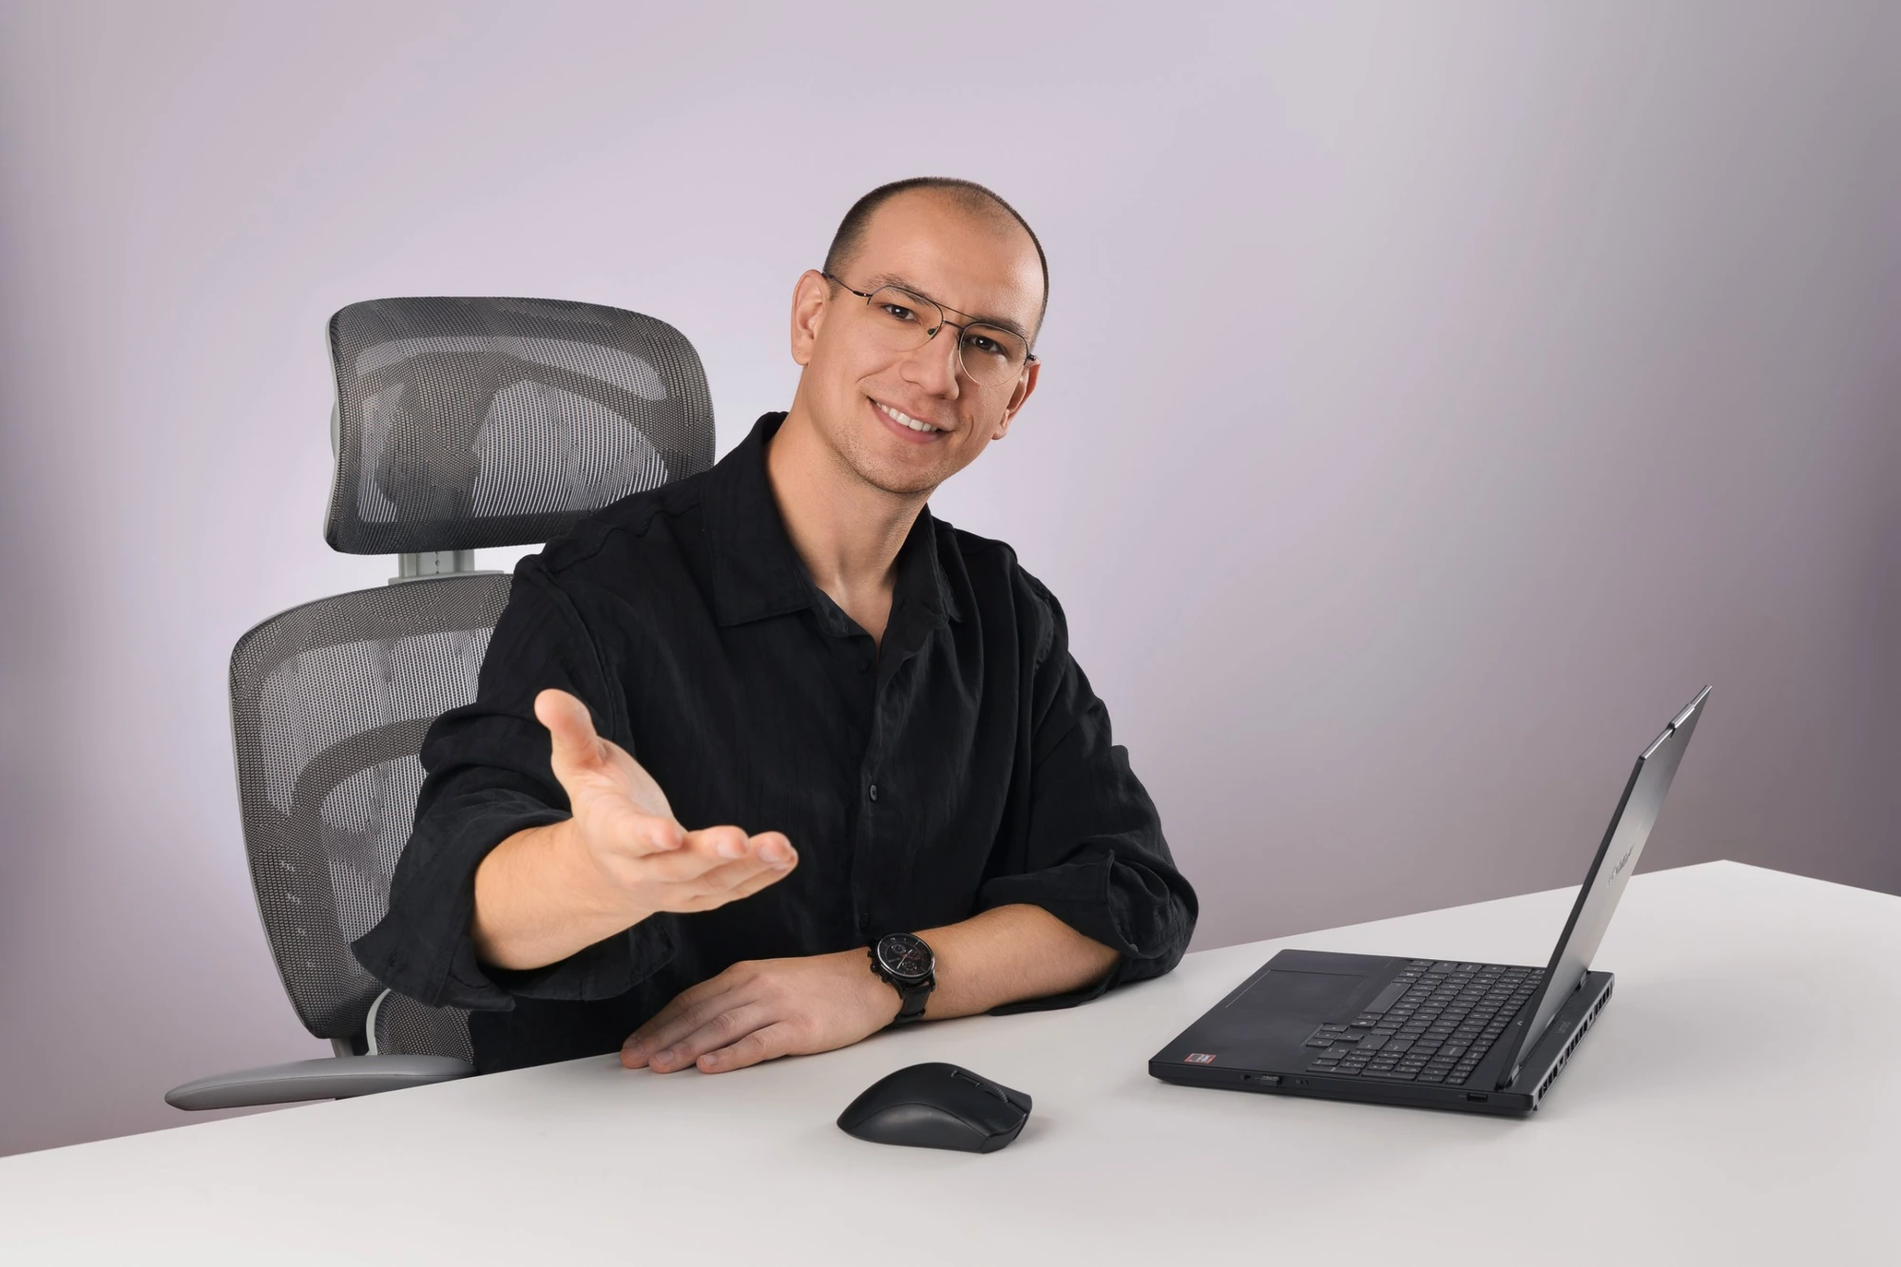
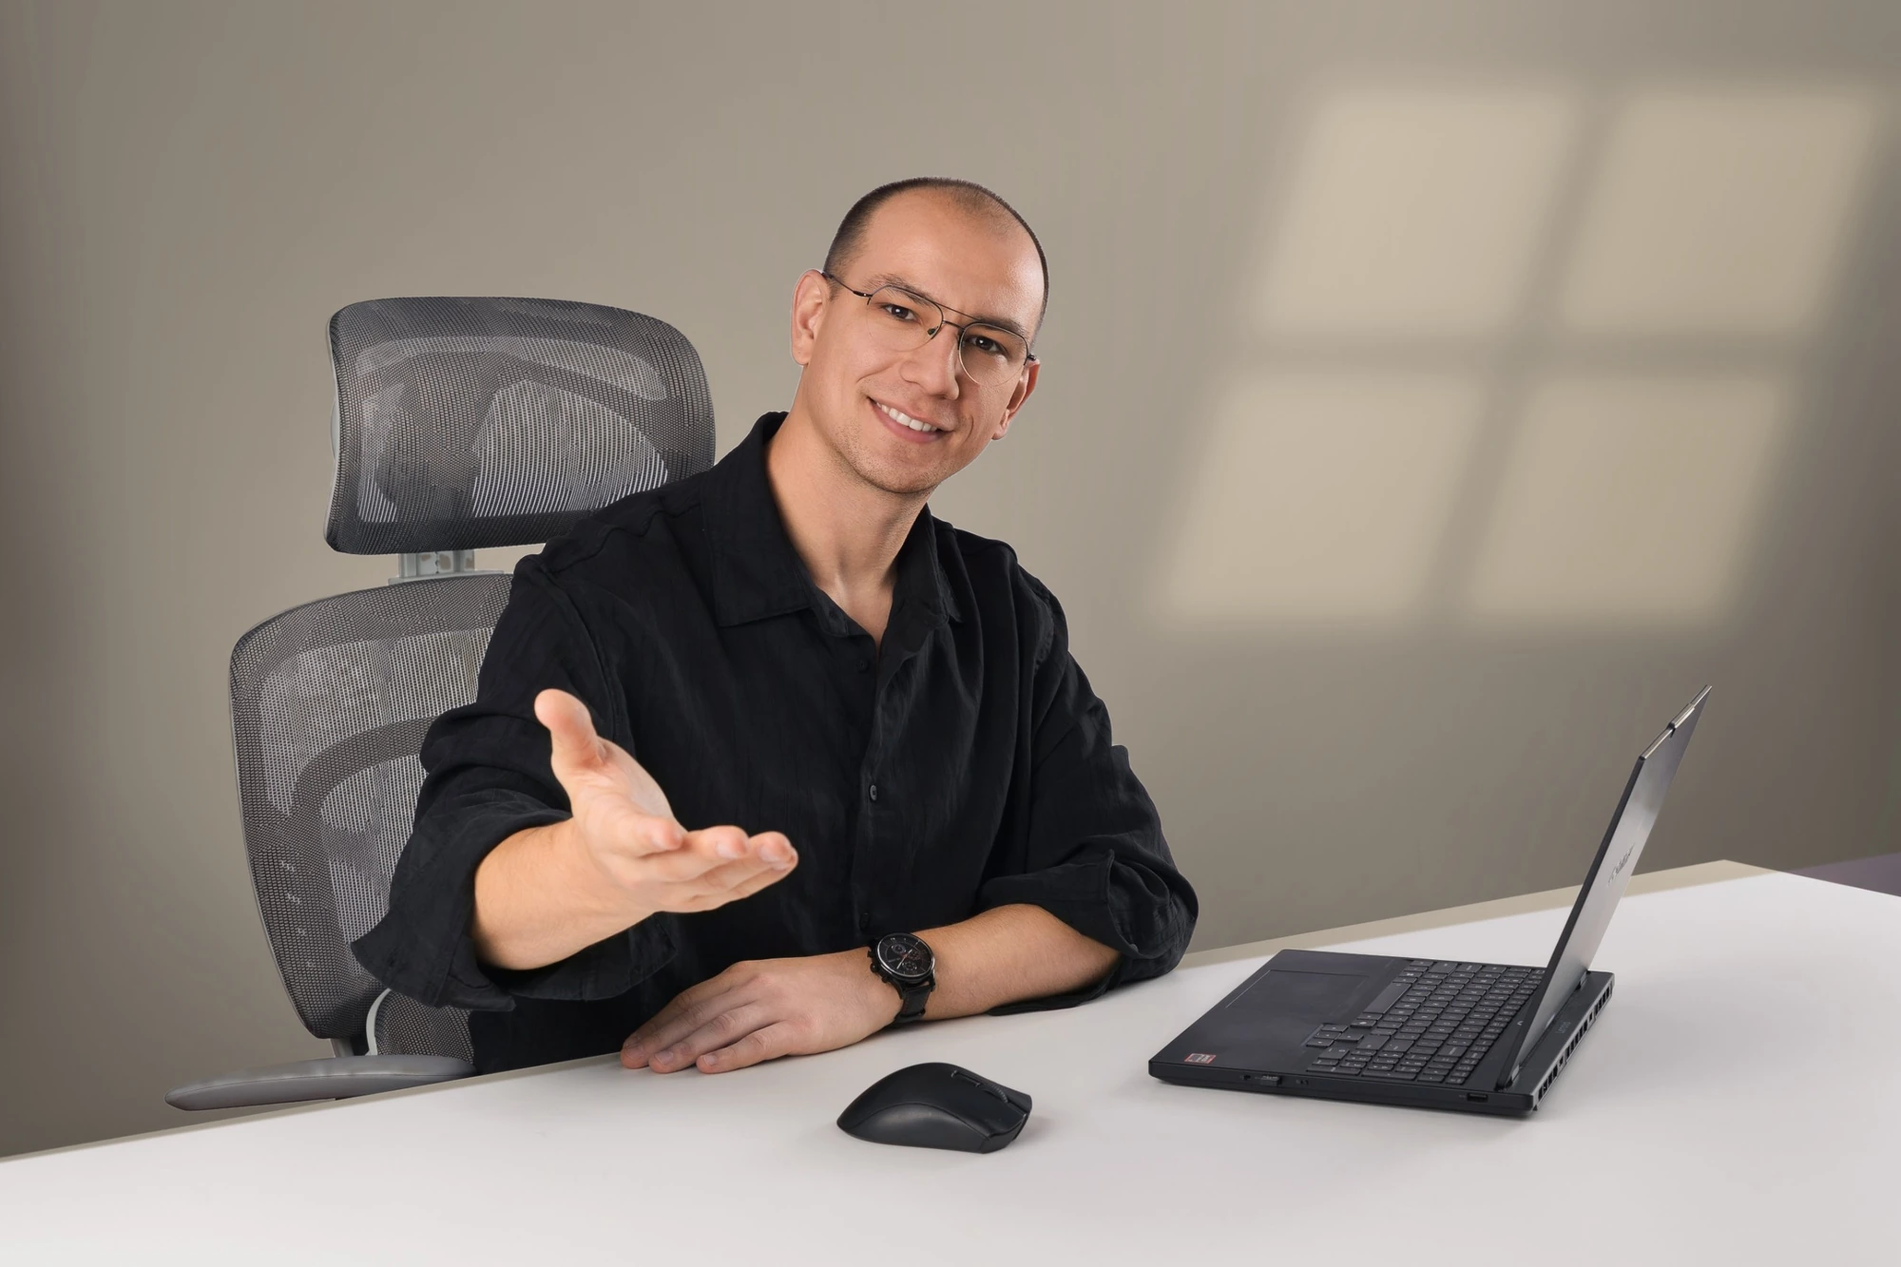
Spójność marki: ujednolicone tło zdjęć ze światłem z okna, motyw szczeliny, schemat sekcji, docs/BRAND.md
Claude-Session: https://claude.ai/code/session_013GF9ihLSb9pYp8QsNMTHzT

diff --git a/automatyzacje.html b/automatyzacje.html
@@ -56,6 +56,7 @@
 <div class="ptrack"><div class="psticky"><div class="phead"><div class="rv-wrap"><span class="eyebrow">Jak wygląda praca</span><h2 id="h-proc" style="margin-top:1rem"><span class="rv"><span>Jak powstaje</span></span><span class="rv"><span><em>automatyzacja.</em></span></span></h2></div><p class="lead fade">Zaczynam od tego, co powtarzasz każdego dnia i gdzie ucieka Ci najwięcej czasu.</p></div><ol class="steps"><li tabindex="0"><span class="plate" aria-hidden="true"></span><span class="dot"></span><div class="hd"><i class="sn" aria-hidden="true"></i><b>Rozmowa</b></div><div class="bd"><p>Około 20 minut, telefon albo wideo. Opisujesz, co robisz ręcznie i co się powtarza. Ustalamy zakres, termin i cenę. Cena się nie zmienia, dopóki nie zmienia się zakres. Jeśli zmiana go poszerza, uzgadniamy to z Tobą, zanim ruszę dalej.</p></div></li><li tabindex="0"><span class="plate" aria-hidden="true"></span><span class="dot"></span><div class="hd"><i class="sn" aria-hidden="true"></i><b>Mapa procesu</b></div><div class="bd"><p>Rozpisuję kolejne kroki, a Ty zaznaczasz, które z nich zabierają najwięcej czasu albo najczęściej się mylą.</p></div></li><li tabindex="0"><span class="plate" aria-hidden="true"></span><span class="dot"></span><div class="hd"><i class="sn" aria-hidden="true"></i><b>Projekt</b></div><div class="bd"><p>Widzisz, jak automatyzacja będzie działać, zanim ją uruchomię. Poprawiamy to razem. Zmiany są normalne, bo dopiero widząc efekt, wiadomo, czego naprawdę potrzeba.</p></div></li><li tabindex="0"><span class="plate" aria-hidden="true"></span><span class="dot"></span><div class="hd"><i class="sn" aria-hidden="true"></i><b>Budowa</b></div><div class="bd"><p>Łączę narzędzia, których już używasz, żeby dane przechodziły między nimi same. AI jest jednym z moich narzędzi, a każdy szczegół sprawdzam sam.</p></div></li><li tabindex="0"><span class="plate" aria-hidden="true"></span><span class="dot"></span><div class="hd"><i class="sn" aria-hidden="true"></i><b>Test i wdrożenie</b></div><div class="bd"><p>Sprawdzamy automatyzację na prawdziwych przypadkach, a potem ją uruchamiam. Dostajesz opis, jak działa i jak ją wyłączyć.</p></div></li><li tabindex="0"><span class="plate" aria-hidden="true"></span><span class="dot"></span><div class="hd"><i class="sn" aria-hidden="true"></i><b>Opieka</b></div><div class="bd"><p>Po uruchomieniu nie znikam. Poprawiam to, co przestaje działać, gdy zmieniają się narzędzia albo sposób Twojej pracy.</p></div></li></ol></div></div>
 </section>
 
+<div class="slit-div fade" aria-hidden="true"></div>
 <section class="offer edge light" id="oferta" data-tone="light" aria-labelledby="h-offer">
   <div class="bg" aria-hidden="true"></div>
   <div class="offer-head rv-wrap">
@@ -78,7 +79,7 @@
 </section>
 
 <section class="backcta light" id="kontakt-sub" data-tone="light">
-  <div class="rv-wrap"><h2><span class="rv"><span>Opisz, czego potrzebujesz.</span></span><span class="rv"><span><em>Przygotuję wycenę.</em></span></span></h2></div>
+  <div class="rv-wrap"><span class="eyebrow">Kontakt</span><h2 style="margin-top:1rem"><span class="rv"><span>Opisz, czego potrzebujesz.</span></span><span class="rv"><span><em>Przygotuję wycenę.</em></span></span></h2></div>
   <div class="hero-cta" style="margin-top:0"><a class="btn btn-accent" href="tel:+48791632675">Zadzwoń: 791 632 675</a><a class="btn btn-ghost" href="index.html#kontakt">Napisz wiadomość</a></div>
 </section>
 </main>

diff --git a/src/automatyzacje.html b/src/automatyzacje.html
@@ -39,6 +39,7 @@
 <div class="ptrack"><div class="psticky"><div class="phead"><div class="rv-wrap"><span class="eyebrow">Jak wygląda praca</span><h2 id="h-proc" style="margin-top:1rem"><span class="rv"><span>Jak powstaje</span></span><span class="rv"><span><em>automatyzacja.</em></span></span></h2></div><p class="lead fade">Zaczynam od tego, co powtarzasz każdego dnia i gdzie ucieka Ci najwięcej czasu.</p></div><ol class="steps"><li tabindex="0"><span class="plate" aria-hidden="true"></span><span class="dot"></span><div class="hd"><i class="sn" aria-hidden="true"></i><b>Rozmowa</b></div><div class="bd"><p>Około 20 minut, telefon albo wideo. Opisujesz, co robisz ręcznie i co się powtarza. Ustalamy zakres, termin i cenę. Cena się nie zmienia, dopóki nie zmienia się zakres. Jeśli zmiana go poszerza, uzgadniamy to z Tobą, zanim ruszę dalej.</p></div></li><li tabindex="0"><span class="plate" aria-hidden="true"></span><span class="dot"></span><div class="hd"><i class="sn" aria-hidden="true"></i><b>Mapa procesu</b></div><div class="bd"><p>Rozpisuję kolejne kroki, a Ty zaznaczasz, które z nich zabierają najwięcej czasu albo najczęściej się mylą.</p></div></li><li tabindex="0"><span class="plate" aria-hidden="true"></span><span class="dot"></span><div class="hd"><i class="sn" aria-hidden="true"></i><b>Projekt</b></div><div class="bd"><p>Widzisz, jak automatyzacja będzie działać, zanim ją uruchomię. Poprawiamy to razem. Zmiany są normalne, bo dopiero widząc efekt, wiadomo, czego naprawdę potrzeba.</p></div></li><li tabindex="0"><span class="plate" aria-hidden="true"></span><span class="dot"></span><div class="hd"><i class="sn" aria-hidden="true"></i><b>Budowa</b></div><div class="bd"><p>Łączę narzędzia, których już używasz, żeby dane przechodziły między nimi same. AI jest jednym z moich narzędzi, a każdy szczegół sprawdzam sam.</p></div></li><li tabindex="0"><span class="plate" aria-hidden="true"></span><span class="dot"></span><div class="hd"><i class="sn" aria-hidden="true"></i><b>Test i wdrożenie</b></div><div class="bd"><p>Sprawdzamy automatyzację na prawdziwych przypadkach, a potem ją uruchamiam. Dostajesz opis, jak działa i jak ją wyłączyć.</p></div></li><li tabindex="0"><span class="plate" aria-hidden="true"></span><span class="dot"></span><div class="hd"><i class="sn" aria-hidden="true"></i><b>Opieka</b></div><div class="bd"><p>Po uruchomieniu nie znikam. Poprawiam to, co przestaje działać, gdy zmieniają się narzędzia albo sposób Twojej pracy.</p></div></li></ol></div></div>
 </section>
 
+<div class="slit-div fade" aria-hidden="true"></div>
 <section class="offer edge light" id="oferta" data-tone="light" aria-labelledby="h-offer">
   <div class="bg" aria-hidden="true"></div>
   <div class="offer-head rv-wrap">
@@ -61,7 +62,7 @@
 </section>
 
 <section class="backcta light" id="kontakt-sub" data-tone="light">
-  <div class="rv-wrap"><h2><span class="rv"><span>Opisz, czego potrzebujesz.</span></span><span class="rv"><span><em>Przygotuję wycenę.</em></span></span></h2></div>
+  <div class="rv-wrap"><span class="eyebrow">Kontakt</span><h2 style="margin-top:1rem"><span class="rv"><span>Opisz, czego potrzebujesz.</span></span><span class="rv"><span><em>Przygotuję wycenę.</em></span></span></h2></div>
   <div class="hero-cta" style="margin-top:0"><a class="btn btn-accent" href="tel:+48791632675">Zadzwoń: 791 632 675</a><a class="btn btn-ghost" href="index.html#kontakt">Napisz wiadomość</a></div>
 </section>
 </main>

diff --git a/src/styles.css b/src/styles.css
@@ -471,3 +471,23 @@ footer .sig em{color:var(--amber)}
   .js .svc-index.in li:nth-child(2){transition-delay:.1s}.js .svc-index.in li:nth-child(3){transition-delay:.2s}
 }
 @media (min-width:900px){.offer-top{grid-template-columns:minmax(0,1fr) minmax(0,1fr);gap:clamp(3rem,calc(6*var(--vw)),6rem);align-items:end}.offer-top .offer-head{order:2}.svc-index{order:1}}
+
+/* ===== Motyw marki: szczelina światła =====
+   Jedna pionowa szczelina (jak w znaku) wraca w etykietach, krokach, linkach i przejściach sekcji.
+   Rozmiar zawsze 2px szerokości; kolor --amber na ciemnym, --accent na jasnym. */
+:root{--slit-w:2px}
+.eyebrow::before,.study .tag::before{content:"";flex:0 0 auto;width:var(--slit-w);height:1.05em;border-radius:2px;background:var(--amber);box-shadow:0 0 10px rgba(245,196,90,.55)}
+.study .tag{display:inline-flex;align-items:center;gap:.7rem}
+.light .eyebrow::before{background:var(--accent);box-shadow:none}
+.steps .dot{width:.3rem;height:1.2rem;left:-2.12rem;border-radius:3px}
+.steps li.on .dot{transform:scaleY(1.35)}
+.slit-div{position:relative;height:0;z-index:6;pointer-events:none}
+.slit-div::before{content:"";position:absolute;left:clamp(1.25rem,calc(9*var(--vw)),9rem);top:-3.2rem;width:var(--slit-w);height:6.4rem;border-radius:2px;background:linear-gradient(transparent,var(--amber) 35%,var(--amber) 65%,transparent);box-shadow:0 0 14px rgba(245,196,90,.5)}
+@media (prefers-reduced-motion:no-preference){
+  .js .slit-div::before{transform:scaleY(0);transition:transform 1.1s var(--ease-o)}
+  .js .slit-div.in::before{transform:none}
+}
+@media (hover:hover){
+  footer a,.ledger .more{text-decoration:none;background:linear-gradient(var(--amber),var(--amber)) left bottom/0 1px no-repeat;transition:background-size .45s var(--ease-o)}
+  footer a:hover,.ledger .more:hover{background-size:100% 1px}
+}

diff --git a/styles.css b/styles.css
@@ -471,3 +471,23 @@ footer .sig em{color:var(--amber)}
   .js .svc-index.in li:nth-child(2){transition-delay:.1s}.js .svc-index.in li:nth-child(3){transition-delay:.2s}
 }
 @media (min-width:900px){.offer-top{grid-template-columns:minmax(0,1fr) minmax(0,1fr);gap:clamp(3rem,calc(6*var(--vw)),6rem);align-items:end}.offer-top .offer-head{order:2}.svc-index{order:1}}
+
+/* ===== Motyw marki: szczelina światła =====
+   Jedna pionowa szczelina (jak w znaku) wraca w etykietach, krokach, linkach i przejściach sekcji.
+   Rozmiar zawsze 2px szerokości; kolor --amber na ciemnym, --accent na jasnym. */
+:root{--slit-w:2px}
+.eyebrow::before,.study .tag::before{content:"";flex:0 0 auto;width:var(--slit-w);height:1.05em;border-radius:2px;background:var(--amber);box-shadow:0 0 10px rgba(245,196,90,.55)}
+.study .tag{display:inline-flex;align-items:center;gap:.7rem}
+.light .eyebrow::before{background:var(--accent);box-shadow:none}
+.steps .dot{width:.3rem;height:1.2rem;left:-2.12rem;border-radius:3px}
+.steps li.on .dot{transform:scaleY(1.35)}
+.slit-div{position:relative;height:0;z-index:6;pointer-events:none}
+.slit-div::before{content:"";position:absolute;left:clamp(1.25rem,calc(9*var(--vw)),9rem);top:-3.2rem;width:var(--slit-w);height:6.4rem;border-radius:2px;background:linear-gradient(transparent,var(--amber) 35%,var(--amber) 65%,transparent);box-shadow:0 0 14px rgba(245,196,90,.5)}
+@media (prefers-reduced-motion:no-preference){
+  .js .slit-div::before{transform:scaleY(0);transition:transform 1.1s var(--ease-o)}
+  .js .slit-div.in::before{transform:none}
+}
+@media (hover:hover){
+  footer a,.ledger .more{text-decoration:none;background:linear-gradient(var(--amber),var(--amber)) left bottom/0 1px no-repeat;transition:background-size .45s var(--ease-o)}
+  footer a:hover,.ledger .more:hover{background-size:100% 1px}
+}

diff --git a/realizacje.html b/realizacje.html
@@ -117,7 +117,7 @@
 </section>
 
 <section class="minor" id="inne" data-tone="dark">
-  <h2>Inne projekty</h2>
+  <span class="eyebrow">Mniejsze projekty</span><h2 style="margin-top:1rem">Inne projekty</h2>
   <div class="minor-grid">
     <a class="case c1" href="https://fabianadrianw.github.io/KT_website/" rel="noopener">
   <div class="frame"><div class="bar"><i></i><i></i><i></i><span>malarstwo</span></div>
@@ -140,8 +140,9 @@
   </div>
 </section>
 
+<div class="slit-div fade" aria-hidden="true"></div>
 <section class="backcta light" id="kontakt-sub" data-tone="light">
-  <div class="rv-wrap"><h2><span class="rv"><span>Twoja firma może</span></span><span class="rv"><span><em>być następna.</em></span></span></h2></div>
+  <div class="rv-wrap"><span class="eyebrow">Kontakt</span><h2 style="margin-top:1rem"><span class="rv"><span>Twoja firma może</span></span><span class="rv"><span><em>być następna.</em></span></span></h2></div>
   <div class="hero-cta" style="margin-top:0"><a class="btn btn-accent" href="tel:+48791632675">Zadzwoń: 791 632 675</a><a class="btn btn-ghost" href="index.html#kontakt">Napisz wiadomość</a></div>
 </section>
 </main>

diff --git a/index.html b/index.html
@@ -108,6 +108,7 @@
   </div>
 </section>
 
+<div class="slit-div fade" aria-hidden="true"></div>
 <section class="offer edge light" id="oferta" data-tone="light" aria-labelledby="h-offer">
   <div class="bg" aria-hidden="true"></div>
 <div class="offer-top">
@@ -158,7 +159,7 @@
 <section class="contact edge light" id="kontakt" data-tone="light" aria-labelledby="h-contact">
   <div class="contact-grid">
     <div>
-      <div class="rv-wrap"><h2 id="h-contact"><span class="rv"><span>Opisz, czego potrzebujesz.</span></span><span class="rv"><span><em>Przygotuję wycenę.</em></span></span></h2></div>
+      <div class="rv-wrap"><span class="eyebrow">Kontakt</span><h2 id="h-contact" style="margin-top:1rem"><span class="rv"><span>Opisz, czego potrzebujesz.</span></span><span class="rv"><span><em>Przygotuję wycenę.</em></span></span></h2></div>
       <p class="lead">Napisz albo zadzwoń. Odpowiadam sam, zwykle tego samego dnia.</p>
       <a class="bignum" href="tel:+48791632675">791 632 675</a>
       <div class="channels">

diff --git a/src/index.html b/src/index.html
@@ -75,6 +75,7 @@
   </div>
 </section>
 
+<div class="slit-div fade" aria-hidden="true"></div>
 <section class="offer edge light" id="oferta" data-tone="light" aria-labelledby="h-offer">
   <div class="bg" aria-hidden="true"></div>
 <div class="offer-top">
@@ -125,7 +126,7 @@
 <section class="contact edge light" id="kontakt" data-tone="light" aria-labelledby="h-contact">
   <div class="contact-grid">
     <div>
-      <div class="rv-wrap"><h2 id="h-contact"><span class="rv"><span>Opisz, czego potrzebujesz.</span></span><span class="rv"><span><em>Przygotuję wycenę.</em></span></span></h2></div>
+      <div class="rv-wrap"><span class="eyebrow">Kontakt</span><h2 id="h-contact" style="margin-top:1rem"><span class="rv"><span>Opisz, czego potrzebujesz.</span></span><span class="rv"><span><em>Przygotuję wycenę.</em></span></span></h2></div>
       <p class="lead">Napisz albo zadzwoń. Odpowiadam sam, zwykle tego samego dnia.</p>
       <a class="bignum" href="tel:+48791632675">791 632 675</a>
       <div class="channels">

diff --git a/src/realizacje.html b/src/realizacje.html
@@ -68,15 +68,16 @@
 </section>
 
 <section class="minor" id="inne" data-tone="dark">
-  <h2>Inne projekty</h2>
+  <span class="eyebrow">Mniejsze projekty</span><h2 style="margin-top:1rem">Inne projekty</h2>
   <div class="minor-grid">
     {{CASE:tereszko:c1}}
     {{CASE:alan:c2}}
   </div>
 </section>
 
+<div class="slit-div fade" aria-hidden="true"></div>
 <section class="backcta light" id="kontakt-sub" data-tone="light">
-  <div class="rv-wrap"><h2><span class="rv"><span>Twoja firma może</span></span><span class="rv"><span><em>być następna.</em></span></span></h2></div>
+  <div class="rv-wrap"><span class="eyebrow">Kontakt</span><h2 style="margin-top:1rem"><span class="rv"><span>Twoja firma może</span></span><span class="rv"><span><em>być następna.</em></span></span></h2></div>
   <div class="hero-cta" style="margin-top:0"><a class="btn btn-accent" href="tel:+48791632675">Zadzwoń: 791 632 675</a><a class="btn btn-ghost" href="index.html#kontakt">Napisz wiadomość</a></div>
 </section>
 </main>

diff --git a/strony.html b/strony.html
@@ -80,6 +80,7 @@
   </div>
 </section>
 
+<div class="slit-div fade" aria-hidden="true"></div>
 <section class="offer edge light" id="oferta" data-tone="light" aria-labelledby="h-offer">
   <div class="bg" aria-hidden="true"></div>
   <div class="offer-head rv-wrap">
@@ -102,7 +103,7 @@
 </section>
 
 <section class="backcta light" id="kontakt-sub" data-tone="light">
-  <div class="rv-wrap"><h2><span class="rv"><span>Opisz, czego potrzebujesz.</span></span><span class="rv"><span><em>Przygotuję wycenę.</em></span></span></h2></div>
+  <div class="rv-wrap"><span class="eyebrow">Kontakt</span><h2 style="margin-top:1rem"><span class="rv"><span>Opisz, czego potrzebujesz.</span></span><span class="rv"><span><em>Przygotuję wycenę.</em></span></span></h2></div>
   <div class="hero-cta" style="margin-top:0"><a class="btn btn-accent" href="tel:+48791632675">Zadzwoń: 791 632 675</a><a class="btn btn-ghost" href="index.html#kontakt">Napisz wiadomość</a></div>
 </section>
 </main>

diff --git a/aplikacje.html b/aplikacje.html
@@ -65,6 +65,7 @@
   </div>
 </section>
 
+<div class="slit-div fade" aria-hidden="true"></div>
 <section class="offer edge light" id="oferta" data-tone="light" aria-labelledby="h-offer">
   <div class="bg" aria-hidden="true"></div>
   <div class="offer-head rv-wrap">
@@ -82,7 +83,7 @@
 </section>
 
 <section class="backcta light" id="kontakt-sub" data-tone="light">
-  <div class="rv-wrap"><h2><span class="rv"><span>Opisz, czego potrzebujesz.</span></span><span class="rv"><span><em>Przygotuję wycenę.</em></span></span></h2></div>
+  <div class="rv-wrap"><span class="eyebrow">Kontakt</span><h2 style="margin-top:1rem"><span class="rv"><span>Opisz, czego potrzebujesz.</span></span><span class="rv"><span><em>Przygotuję wycenę.</em></span></span></h2></div>
   <div class="hero-cta" style="margin-top:0"><a class="btn btn-accent" href="tel:+48791632675">Zadzwoń: 791 632 675</a><a class="btn btn-ghost" href="index.html#kontakt">Napisz wiadomość</a></div>
 </section>
 </main>

diff --git a/src/aplikacje.html b/src/aplikacje.html
@@ -40,6 +40,7 @@
   </div>
 </section>
 
+<div class="slit-div fade" aria-hidden="true"></div>
 <section class="offer edge light" id="oferta" data-tone="light" aria-labelledby="h-offer">
   <div class="bg" aria-hidden="true"></div>
   <div class="offer-head rv-wrap">
@@ -57,7 +58,7 @@
 </section>
 
 <section class="backcta light" id="kontakt-sub" data-tone="light">
-  <div class="rv-wrap"><h2><span class="rv"><span>Opisz, czego potrzebujesz.</span></span><span class="rv"><span><em>Przygotuję wycenę.</em></span></span></h2></div>
+  <div class="rv-wrap"><span class="eyebrow">Kontakt</span><h2 style="margin-top:1rem"><span class="rv"><span>Opisz, czego potrzebujesz.</span></span><span class="rv"><span><em>Przygotuję wycenę.</em></span></span></h2></div>
   <div class="hero-cta" style="margin-top:0"><a class="btn btn-accent" href="tel:+48791632675">Zadzwoń: 791 632 675</a><a class="btn btn-ghost" href="index.html#kontakt">Napisz wiadomość</a></div>
 </section>
 </main>

diff --git a/src/strony.html b/src/strony.html
@@ -47,6 +47,7 @@
   </div>
 </section>
 
+<div class="slit-div fade" aria-hidden="true"></div>
 <section class="offer edge light" id="oferta" data-tone="light" aria-labelledby="h-offer">
   <div class="bg" aria-hidden="true"></div>
   <div class="offer-head rv-wrap">
@@ -69,7 +70,7 @@
 </section>
 
 <section class="backcta light" id="kontakt-sub" data-tone="light">
-  <div class="rv-wrap"><h2><span class="rv"><span>Opisz, czego potrzebujesz.</span></span><span class="rv"><span><em>Przygotuję wycenę.</em></span></span></h2></div>
+  <div class="rv-wrap"><span class="eyebrow">Kontakt</span><h2 style="margin-top:1rem"><span class="rv"><span>Opisz, czego potrzebujesz.</span></span><span class="rv"><span><em>Przygotuję wycenę.</em></span></span></h2></div>
   <div class="hero-cta" style="margin-top:0"><a class="btn btn-accent" href="tel:+48791632675">Zadzwoń: 791 632 675</a><a class="btn btn-ghost" href="index.html#kontakt">Napisz wiadomość</a></div>
 </section>
 </main>
